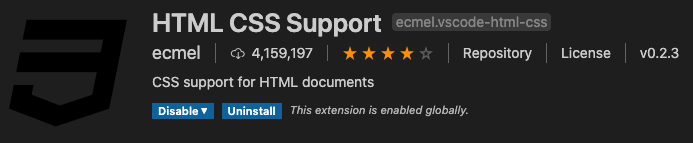
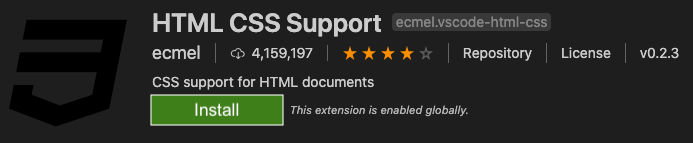
Finished draft of the installation appendix page for VSCode.

Changed region(s): [[0.2121, 0.6434, 0.4242, 0.8951]]

diff --git a/src/appendices/software-installation/vscode-setup.rst b/src/appendices/software-installation/vscode-setup.rst
@@ -201,26 +201,29 @@ keywords, flagging syntax errors, providing suggestions, etc. We used these
 features in the repl.it and Trinket online editors. Now we want to include them
 in our VSCode workspace.
 
-#. Open VS Code and select the *Extensions* icon on the left side of the
+#. Open VSCode and select the *Extensions* icon on the left side of the
    workspace.
 
-   [IMAGE]
+   .. figure:: figures/extensions-icon.png
+      :alt: Extensions button in the VSCode toolbar.
+
+      Extensions add helpful tools to VSCode!
 
 #. In the search bar, enter ``Python``. Select the *Python* extension from
    ``Microsoft``. Click the *Install* button.
 
    .. figure:: figures/python-ext.png
       :alt: Python extension for VSCode.
-      :width: 80%
+      :width: 70%
 
       This extension allows VSCode to recognize and run Python code.
 
-#. Back in the search bar, enter ``html css support``. Select the option from
-   ``ecmel``.
+#. Back in the search bar, enter ``html css support``. Select and install the
+   option from ``ecmel``.
 
    .. figure:: figures/html-css-ext.png
       :alt: HTML/CSS extension for VSCode.
-      :width: 80%
+      :width: 70%
 
       This extension allows VSCode to recognize HTML and CSS code.
 
@@ -228,12 +231,25 @@ Optional Extensions
 ^^^^^^^^^^^^^^^^^^^
 
 Besides writing and running code, IDEs also provide support for coders! This
-includes being able to preview a web page right inside the workspace, providing
-suggestions for completing code statements, or adding colors to help keep track
-of indentations.
+includes being able to preview a web page right inside the workspace or
+providing suggestions for how to complete code statements.
 
 While not necessary, the following extensions help you work:
 
 #. Visual Studio IntelliCode by ``Microsoft``.
+
+   .. figure:: figures/intellicode.png
+      :alt: Intellicode extension for VSCode.
+      :width: 70%
+
+      This extension provides suggestions for completing code statements.
+
 #. Close HTML/XML tag by ``Compulim``.
-#. Indent-Rainbow by ``oderwa``.
+
+   .. figure:: figures/close-tags.png
+      :alt: Close HTML/XML extension for VSCode.
+      :width: 70%
+
+      This extension automatically adds closing tags as you write HTML code.
+
+There are LOTS of other extensions available. Feel free to explore the options!

diff --git a/src/chapters/local-dev/vscode-python.rst b/src/chapters/local-dev/vscode-python.rst
@@ -8,6 +8,8 @@ Checking Python Version
 
 Lorem ipsum...
 
+pylint via terminal...
+
 First Local Program
 -------------------
 
